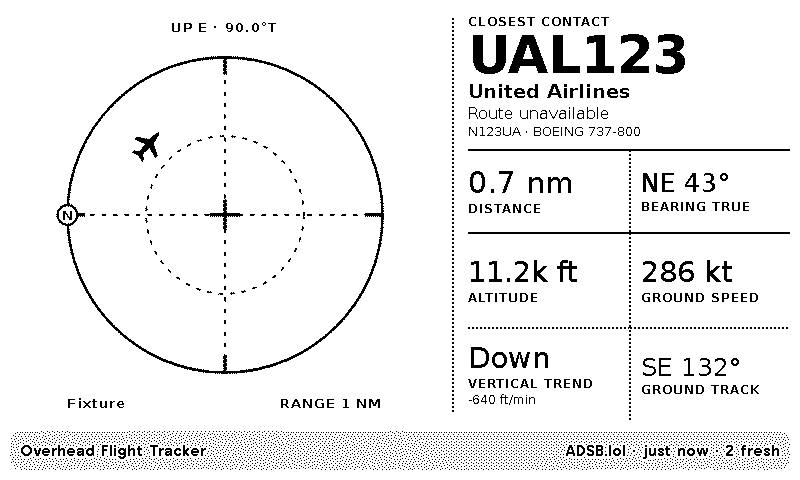
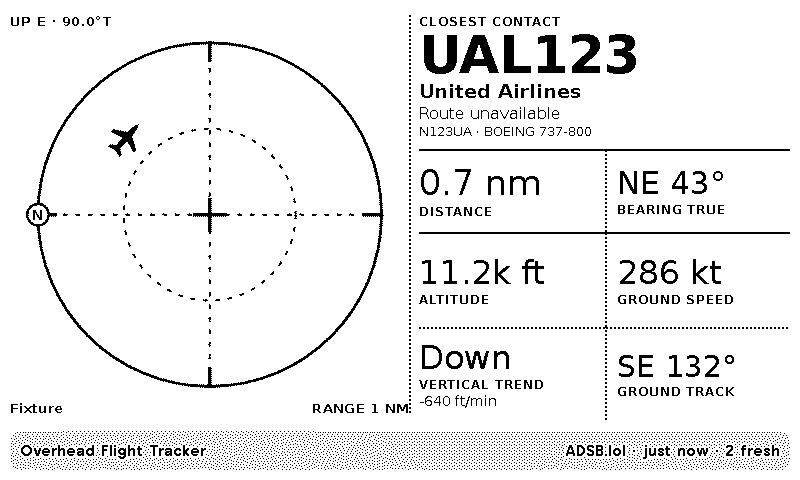
Enlarge radar scope and telemetry values

diff --git a/README.md b/README.md
@@ -65,7 +65,7 @@ closer than one directly above.
 
 ## Radar scope and display fields
 
-The 800×480 full view uses a 58/42 split between a self-contained vector radar
+The 800×480 full view uses a 52/48 split between a self-contained vector radar
 scope and a compact telemetry rail. The scope is north-up by default. The
 `map_up_bearing_deg` setting changes the true bearing represented by the top of
 the scope; the true-north marker remains upright and visible at every setting.
